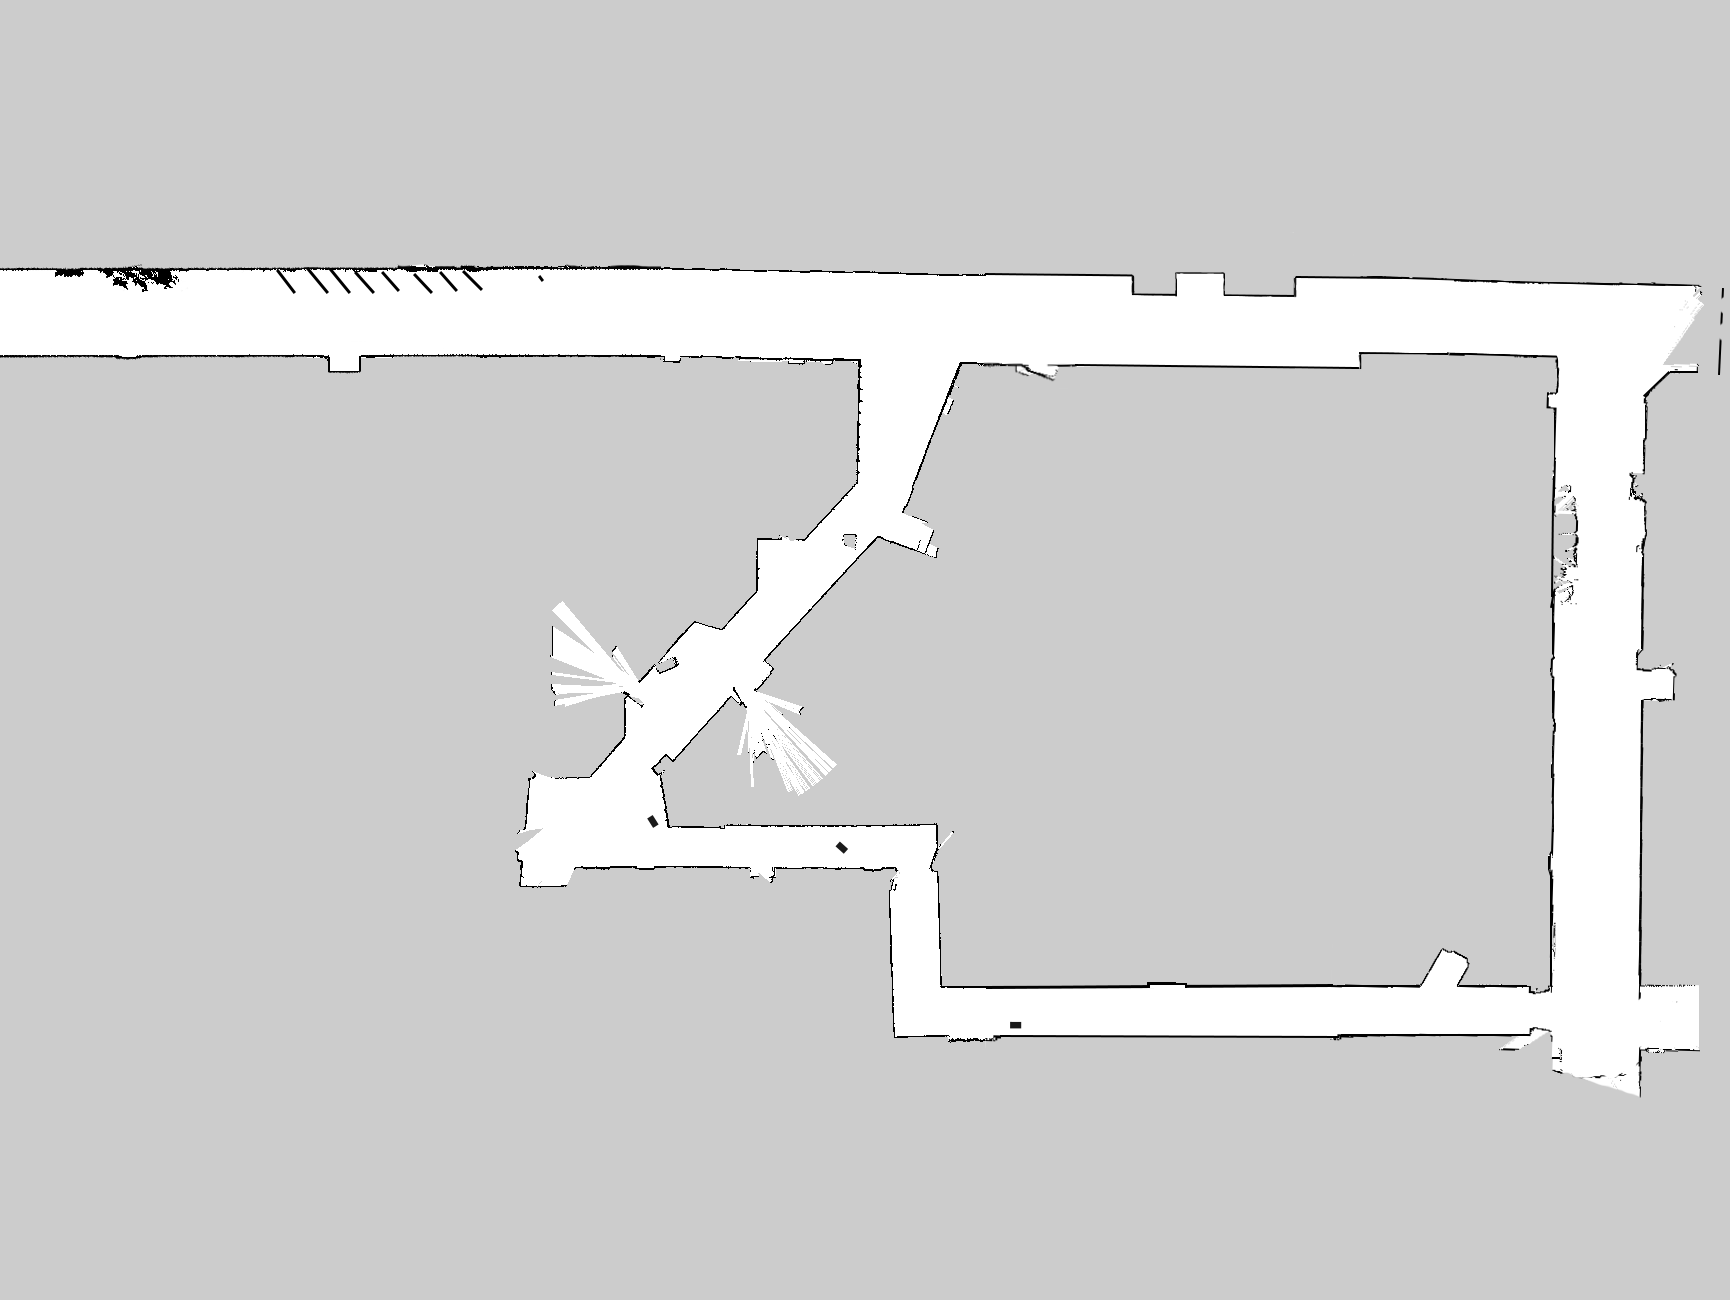
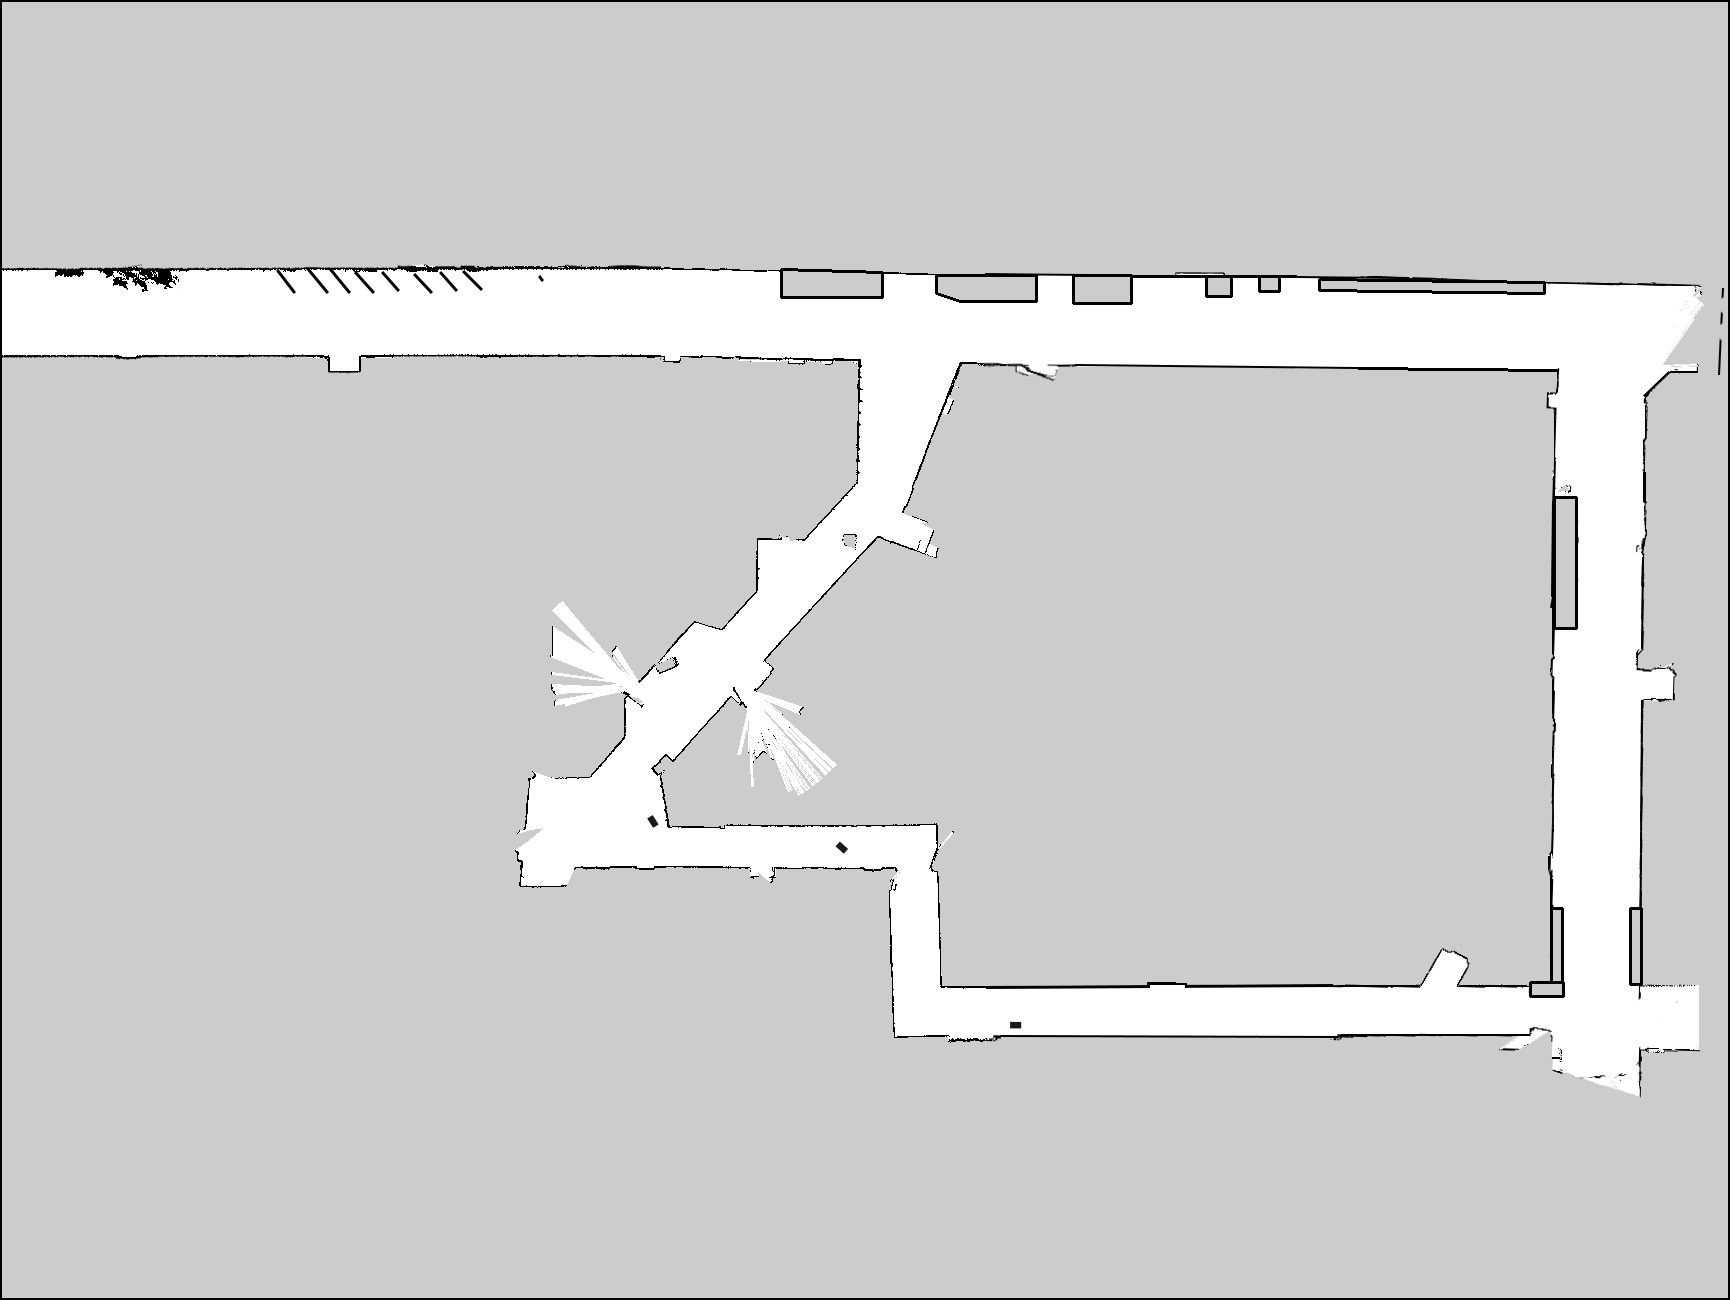
traffic light detection tuning

diff --git a/src/final_challenge2025/shrinkray_heist/shrinkray_heist/traffic_light_detector.py b/src/final_challenge2025/shrinkray_heist/shrinkray_heist/traffic_light_detector.py
@@ -1,0 +1,82 @@
+"""
+(Green)
+Include:
+[
+[163.1, 53, 96],
+[157.6, 54, 66],
+[159.5, 56, 62],
+[183, 100, 68],
+[164.3, 98, 51],
+[166.6, 100, 26],
+[166.3, 99, 47],
+]
+
+Probably include:
+[
+[180, 1, 100],
+]
+
+Avoid: Everything else
+
+Bounds:
+H: [158, 186] -> [79, 93]
+S: [52, 100] -> [132, 255]
+V: [55, 100] -> [140, 255]
+"""
+
+import cv2
+import matplotlib.pyplot as plt
+import numpy as np
+
+
+def image_print(img):
+    """
+    Helper function to print out images, for debugging. Pass them in as a list.
+    Press any key to continue.
+    """
+    cv2.imshow("image", img)
+    cv2.waitKey(0)
+    cv2.destroyAllWindows()
+
+
+def light_is_green(img):
+    """
+    img: np.3darray; the input image with a cone to be detected. BGR.
+    Returns True if a green light is visible, False otherwise.
+    """
+    # Set top third of image to black
+    img[: img.shape[0] // 3, :, :] = 0
+    hsv = cv2.cvtColor(img, cv2.COLOR_BGR2HSV)
+
+    # values i got from an hsv color picker online:
+    # 160, 100, 80
+    # 170, 100, 50
+    # math inside np converts from hsv color space to cv hsv color space
+    # lower_color = np.array([160 / 2, 100 * 2.55, 70 * 2.55])  # lower-bound value
+    # upper_color = np.array([170 / 2, 100 * 2.55, 80 * 2.55])  # upper-bound value
+
+    # lower_color = np.array([79, 132, 153])  # lower-bound value
+    lower_color = np.array([79, 132, 140])  # lower-bound value
+    # upper_color = np.array([82, 145, 255])  # upper-bound value
+    upper_color = np.array([93, 255, 255])  # upper-bound value
+    # upper_color = np.array([82, 255, 255])  # upper-bound value
+
+    mask = cv2.inRange(hsv, lower_color, upper_color)
+    # Apply an opening, followed by a closing operation to remove noise and fill in small holes
+    kernel = np.ones((9, 9), np.uint8)
+    cleaned_mask = cv2.morphologyEx(mask, cv2.MORPH_OPEN, kernel)
+    cleaned_mask = cv2.morphologyEx(mask, cv2.MORPH_CLOSE, kernel)
+    contours, _ = cv2.findContours(cleaned_mask, cv2.RETR_EXTERNAL, cv2.CHAIN_APPROX_SIMPLE)
+
+    # displays in rviz
+    image_print(img)
+    image_print(mask)
+    image_print(cleaned_mask)
+
+    # Check contour area
+    if contours:
+        largest_contour = max(contours, key=cv2.contourArea)
+        print(cv2.contourArea(largest_contour))
+        if cv2.contourArea(largest_contour) > 15:
+            return True
+    return False

diff --git a/src/final_challenge2025/shrinkray_heist/shrinkray_heist/color_test.py b/src/final_challenge2025/shrinkray_heist/shrinkray_heist/color_test.py
@@ -1,38 +1,53 @@
-import cv2
-import numpy as np
 import os
 
-from color_segmentation import cd_color_segmentation, image_print
+import cv2
+import numpy as np
+from final_challenge2025.shrinkray_heist.shrinkray_heist.traffic_light_detector import cd_color_segmentation, image_print
 
-test_folder = "./traffic_test_images"
+# test_folder = "./traffic_test_images"
+# ground_truth = {
+#     "1.png": True,
+#     "2.png": True,
+#     "3.png": True,
+#     "4.png": False,
+#     "5.png": False,
+#     "6.png": True,
+#     "7.png": False,
+#     "8.png": False,
+#     "9.png": False,
+#     "10.png": True,
+#     "11.png": False,
+#     "12.png": False,
+#     "13.png": True,
+# }
 
-ground_truth = {
-    '1.png': True,
-    '2.png': True,
-    '3.png': True,
-    '4.png': False,
-    '5.png': False,
-    '6.png': True,
-    '7.png': False,
-    '8.png': False,
-    '9.png': False,
-    '10.png': True,
-    '11.png': False,
-    '12.png': False,
-    '13.png': True,
-}
+# Iterate through images in test_folder
+ground_truth = {}
+for filename in os.listdir("test_images/light/green"):
+    if filename.endswith(".png"):
+        ground_truth[f"test_images/light/green/{filename}"] = "green"
+for filename in os.listdir("test_images/light/red"):
+    if filename.endswith(".png"):
+        ground_truth[f"test_images/light/red/{filename}"] = "red"
+for filename in os.listdir("test_images/light/yellow"):
+    if filename.endswith(".png"):
+        ground_truth[f"test_images/light/yellow/{filename}"] = "yellow"
 
 correct = 0
 total = 0
 
-for filename, true_label in ground_truth.items():
-    img_path = os.path.join(test_folder, filename)
-    img = cv2.imread(img_path)
-
+for filepath, true_label in ground_truth.items():
+    img = cv2.imread(filepath)
     if img is not None:
         predicted = cd_color_segmentation(img)
-        is_correct = (predicted == true_label)
-        correct += int(is_correct)
+        if true_label == "green" and predicted:
+            correct += 1
+        elif true_label == "yellow" and not predicted:
+            correct += 1
+        elif true_label == "red" and not predicted:
+            correct += 1
+        else:
+            print(f"Incorrectly predicted {filepath} as {predicted}")
         total += 1
 
 if total > 0:

diff --git a/src/final_challenge2025/shrinkray_heist/map/fix_map.py b/src/final_challenge2025/shrinkray_heist/map/fix_map.py
@@ -1,0 +1,42 @@
+"""Adds Stata hallway obstacles to the map."""
+
+import cv2
+import numpy as np
+
+# Load the image
+image = cv2.imread("stata_basement_obs.png")
+
+# List of obstacles
+GRAY = (204, 204, 204)
+WHITE = (255, 255, 255)
+obstacles = [
+    [(1132, 276), (1130, 298), (1296, 298), (1296, 276)],
+    [(1132, 276), (1296, 276)],
+    [(882, 272), (882, 297), (781, 297), (781, 269)],
+    [(1319, 308 - 18), (1319, 297 - 18), (1196 + 348, 300 - 18), (1196 + 348, 311 - 18)],
+    [(1010 + 348, 375 - 7), (1209 + 348, 377 - 7), (1213 + 348, 361 - 7), (1007 + 348, 357 - 7)],
+    [(1010 + 348, 375 - 7), (1209 + 348, 377 - 7)],
+    [(1036, 275), (1036, 301), (960, 301), (936, 293), (936, 275)],
+    [(1630, 984), (1630, 908), (1641, 908), (1641, 984)],
+    [(1562, 984), (1562, 908), (1551, 908), (1551, 984)],
+    [(1073, 275), (1073, 303), (1131, 303), (1131, 275)],
+    [(1206, 276), (1206, 296), (1231, 296), (1231, 276)],
+    [(1259, 276), (1259, 291), (1279, 291), (1279, 276)],
+    [(1554, 628), (1576, 628), (1576, 497), (1554, 497)],
+    [(1644, 472), (1644, 501), (1626, 501), (1626, 472)],
+    [(1644, 472), (1644, 501)],
+    [(0, 0), (1729, 0), (1729, 1299), (0, 1299)],
+    [(1563, 982), (1563, 996), (1530, 996), (1530, 982)],
+]
+fill = [WHITE, None, GRAY, GRAY, WHITE, None, GRAY, GRAY, GRAY, GRAY, GRAY, GRAY, GRAY, WHITE, None, None, GRAY]
+
+# Draw lines and/or fill obstacles
+for i, points in enumerate(obstacles):
+    if fill[i]:
+        cv2.fillPoly(image, [np.array(points)], color=fill[i])
+    if fill[i] != WHITE:
+        for j in range(len(points)):
+            cv2.line(image, points[j], points[(j + 1) % len(points)], color=(0, 0, 0), thickness=2)
+
+# Save the modified image
+cv2.imwrite("new_map.png", image)
